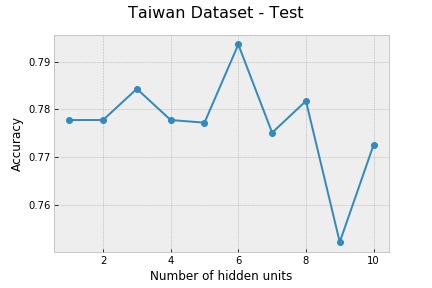
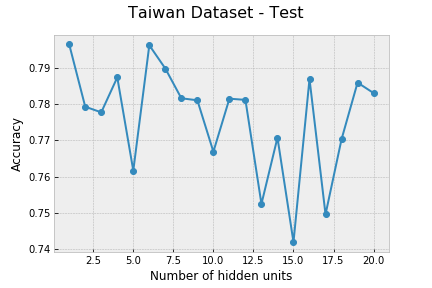
Updated results for the taiwan dataset.

diff --git a/source/main_taiwan.py b/source/main_taiwan.py
@@ -29,7 +29,7 @@ def log_likelihood(W, *logl_args):
 
 #Store results
 results_list = [] # to store result of nested sampling
-x_axis = range(1,11,1) # Number of hidden units
+x_axis = range(1,21,1) # Number of hidden units
 # Architecture for mlp
 input_neurons = x_train.shape[1] # inputs
 output_neurons = 1
@@ -38,7 +38,7 @@ start = datetime.now()
 for i  in x_axis:
     hidden_neurons = i
     ndim_1 =  (input_neurons+1) * (hidden_neurons) + (hidden_neurons + 1) * output_neurons
-    nlive = 500 #ndim_1*100
+    nlive = 1000 #ndim_1*100
     logl_args = [input_neurons, hidden_neurons, output_neurons]
     
     print(" ")
@@ -53,7 +53,7 @@ for i  in x_axis:
                                    bound ='multi',
                                    sample ='hslice'
                                    ) 
-    sampler.run_nested(dlogz = 10000)
+    sampler.run_nested(dlogz = 8000)
     res = sampler.results
     results_list.append(res)
 
@@ -66,7 +66,7 @@ print("\n Time :::", end - start)
 x = x_train
 y = y_train
 
-logZ, accuracy_list = u.single_class_return_results(x, y, results_list, 
+logZ, accuracy_list, predictions_list = u.single_class_return_results(x, y, results_list, 
                                         x_axis, input_neurons, output_neurons)
 
 plt.style.use(['bmh'])
@@ -89,7 +89,7 @@ fig.savefig('results/taiwan_accuracy_train.png')
 # test data set
 x = x_test
 y = y_test
-logZ, accuracy_list = u.single_class_return_results(x, y, results_list, 
+logZ, accuracy_list, predictions_list = u.single_class_return_results(x, y, results_list, 
                                         x_axis, input_neurons, output_neurons)
 
 plt.style.use(['bmh'])

diff --git a/source/utilities.py b/source/utilities.py
@@ -207,7 +207,7 @@ def single_class_return_results(x, y, results_list, x_axis,
         y_pred = predictions_list[i-1]
         accuracy_list.append(metrics.accuracy_score(y, y_pred))
 
-    return logZ, accuracy_list
+    return logZ, accuracy_list, predictions_list
 
 
 ''' Loading in the data'''
